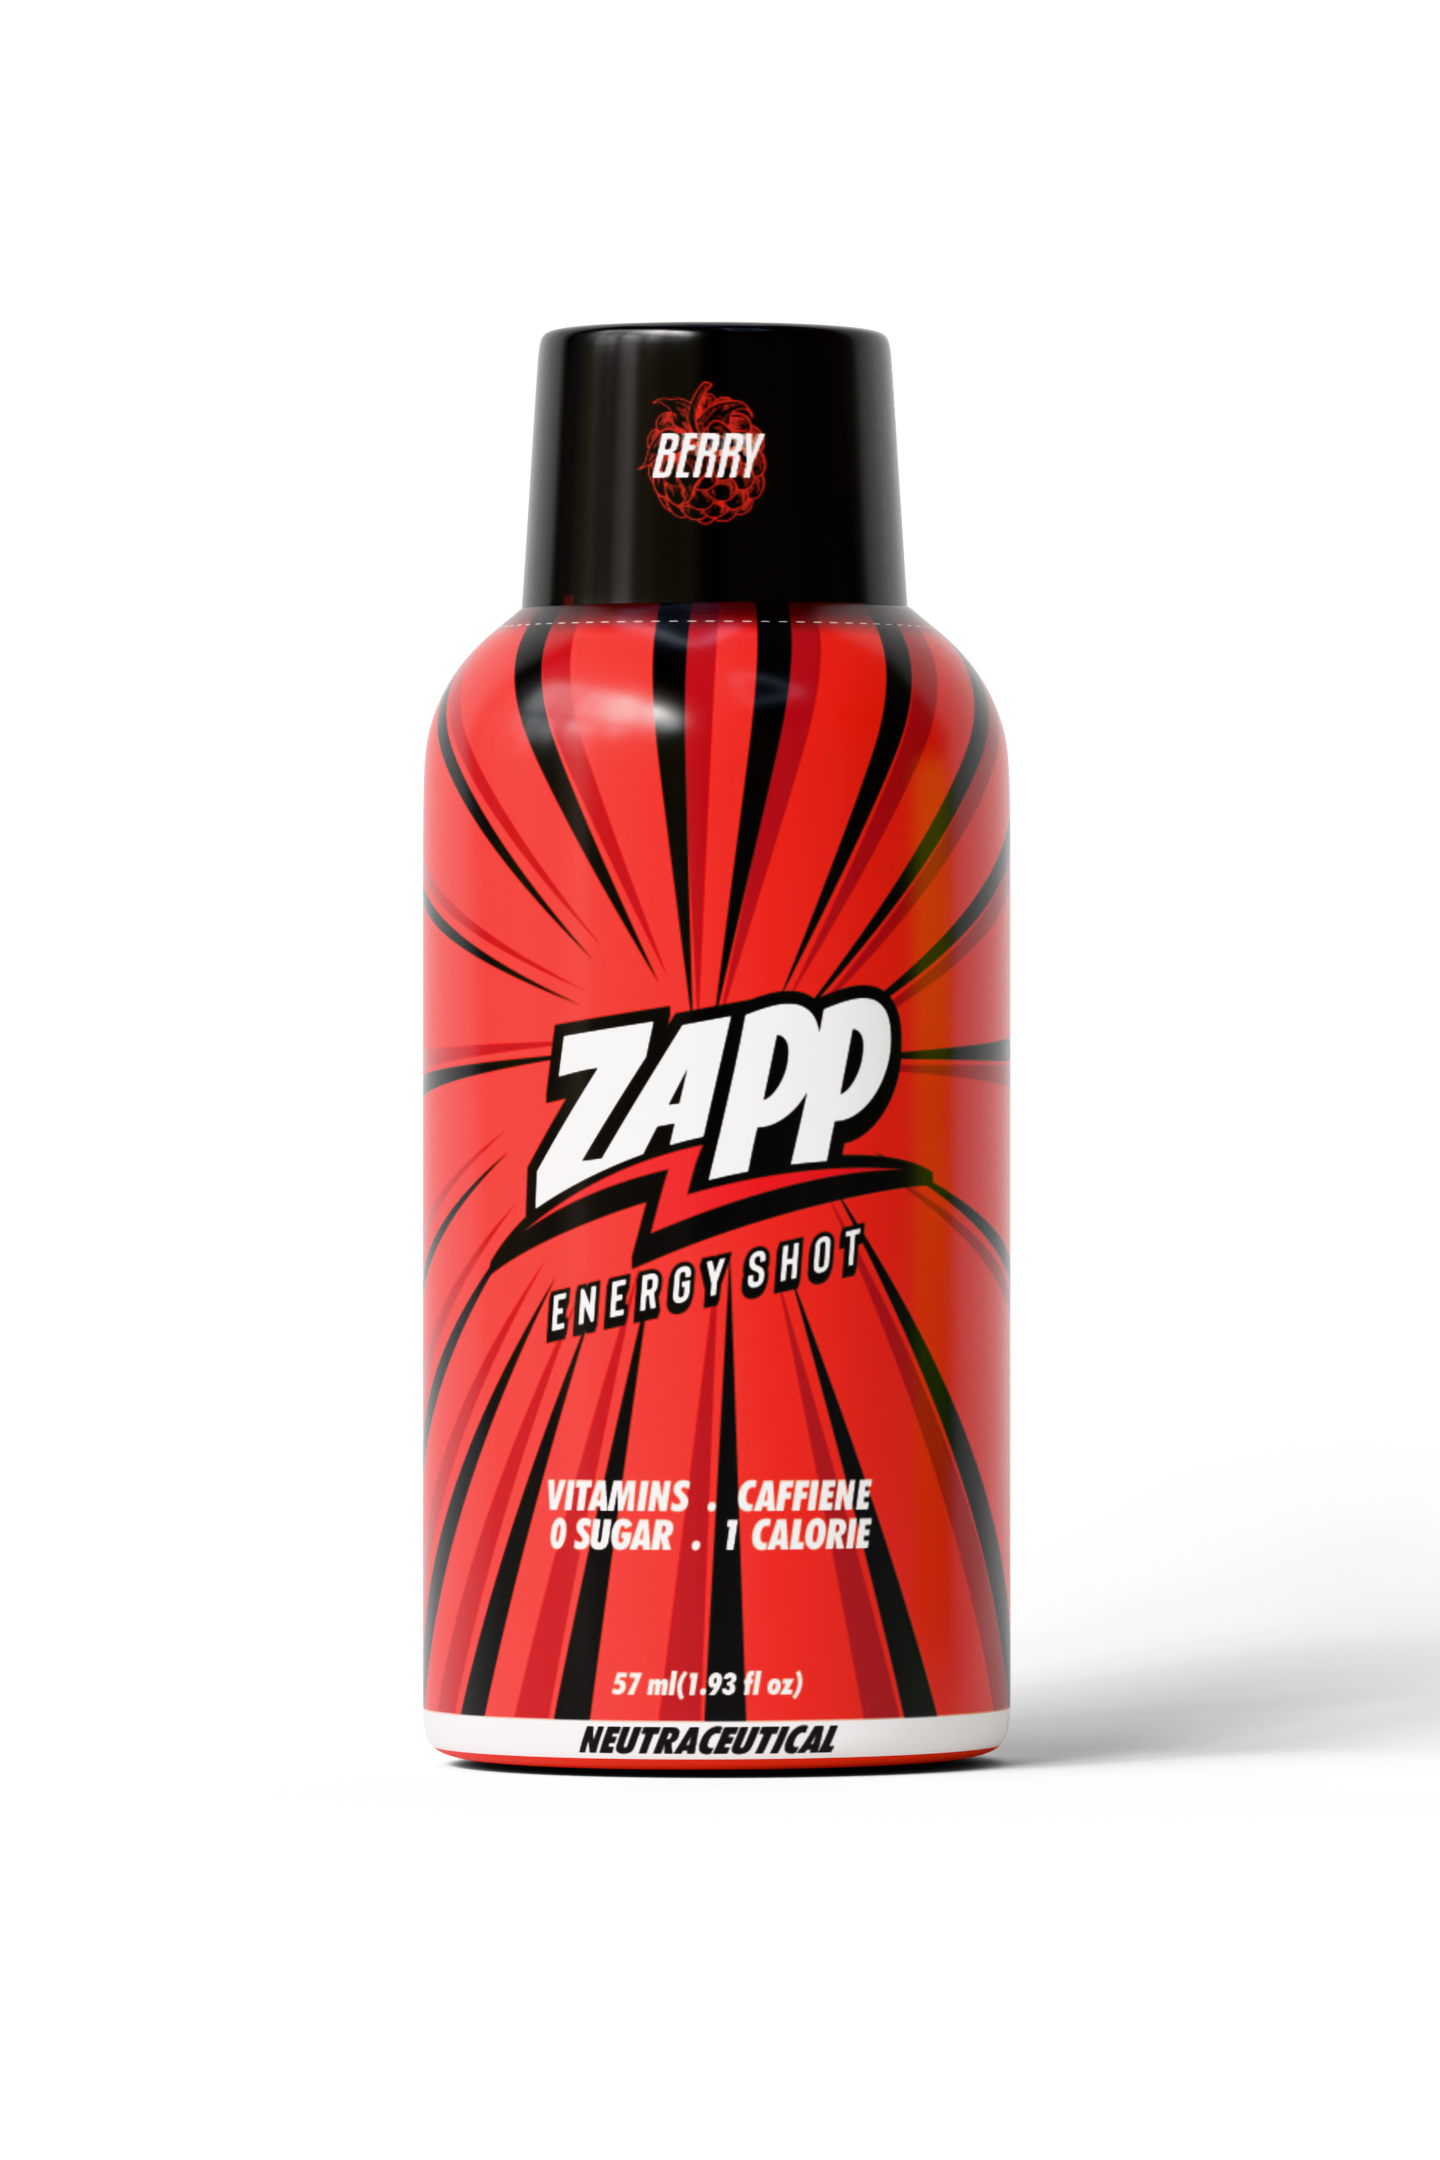
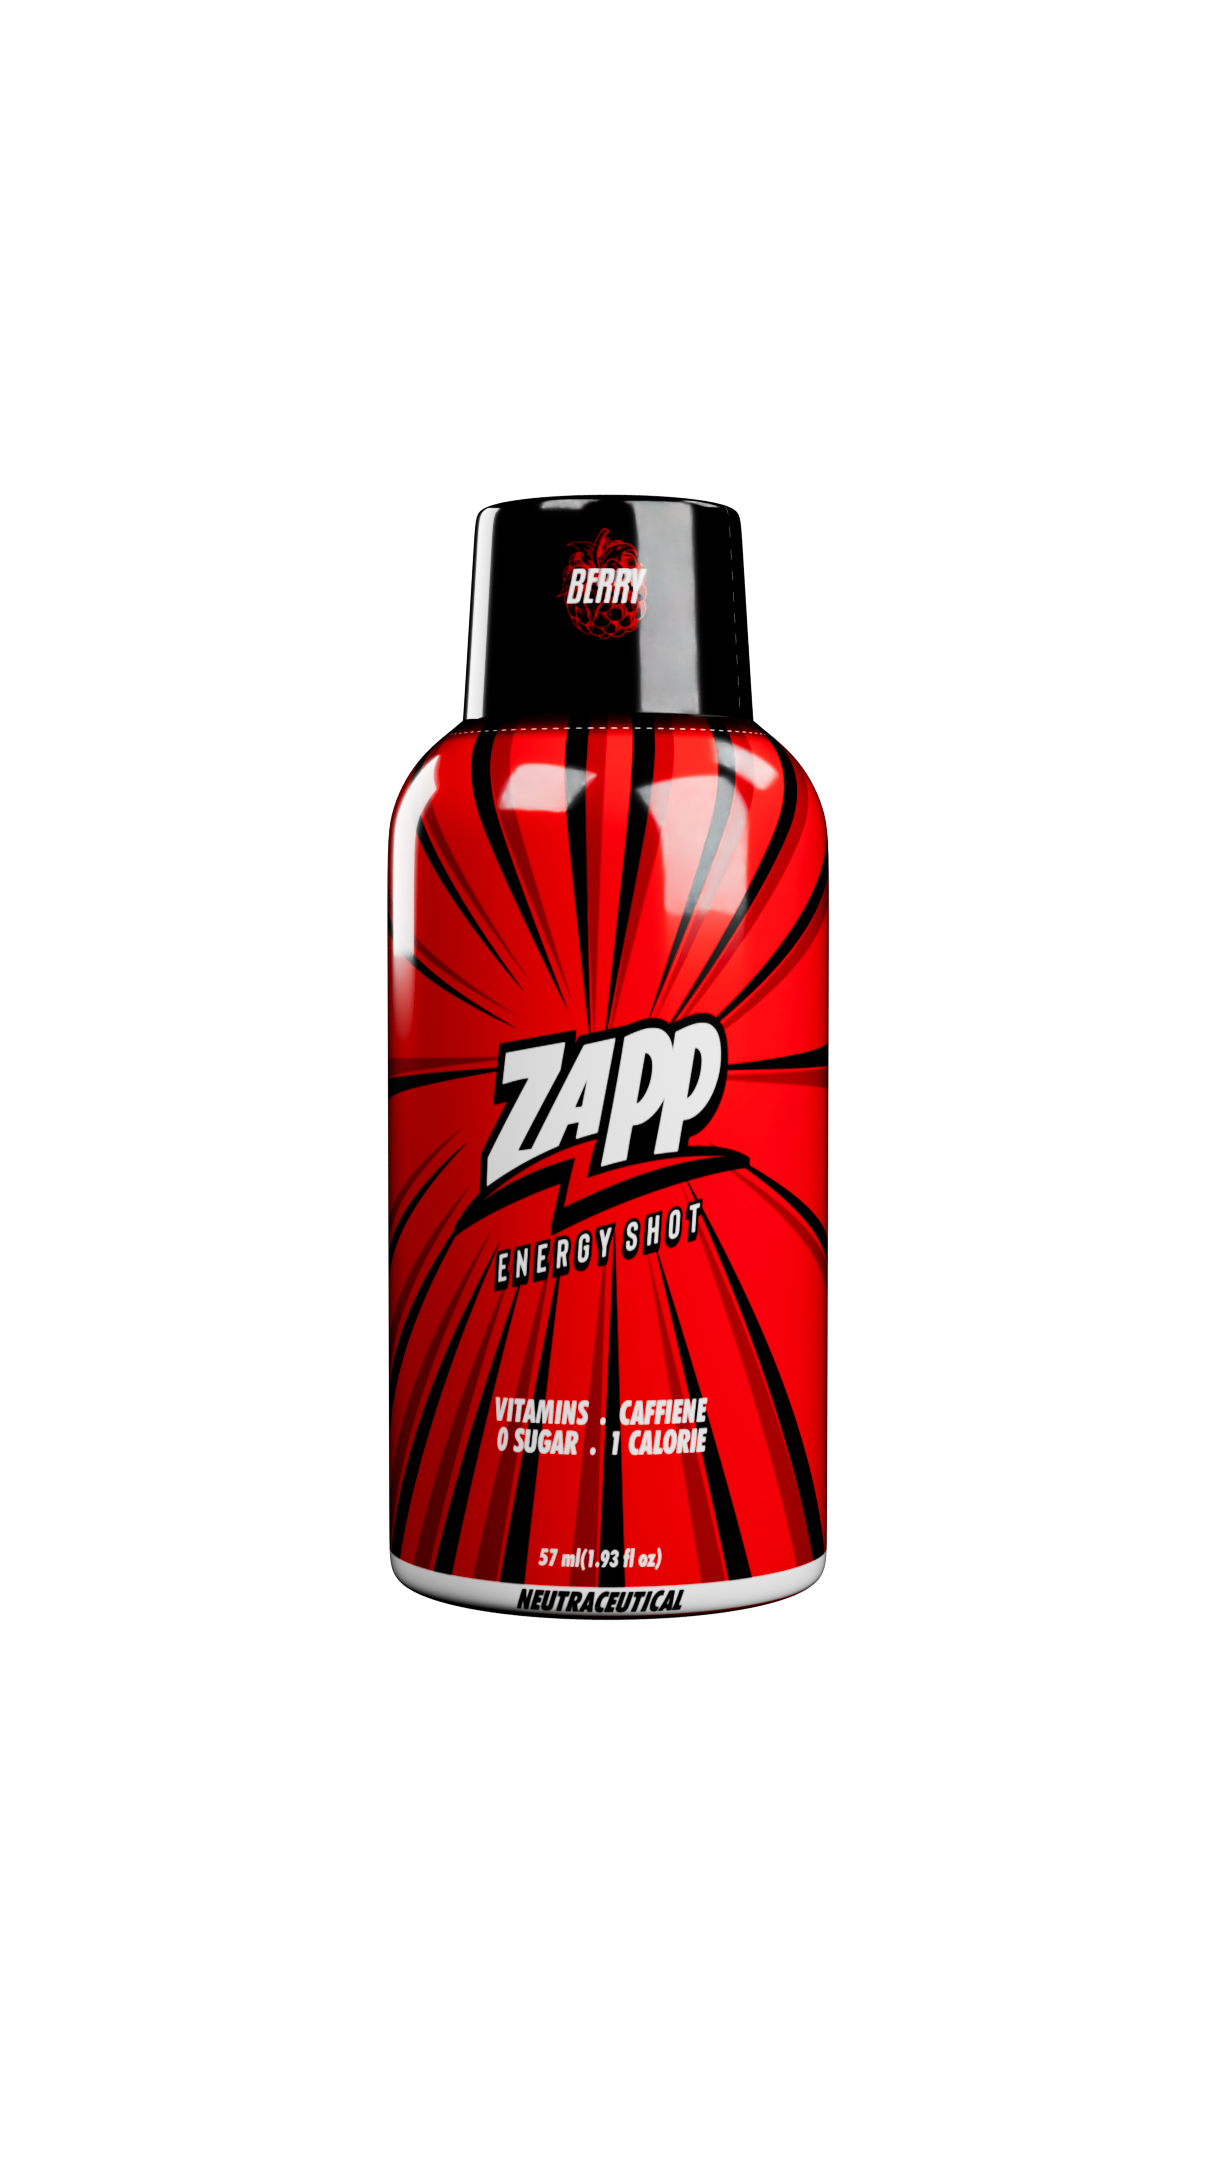
Bottle image change

Changed region(s): [[0.2741, 0.1241, 1.0, 0.8375]]

diff --git a/src/components/Product.jsx b/src/components/Product.jsx
@@ -1,5 +1,5 @@
 import React, { useState } from "react";
-import ZappRed from "../assets/zapp-berry.png";
+import ZappRed from "../assets/zapp-red.png";
 import ZappGreen from "../assets/zapp-lime.png";
 import CurvedNav from "./CurvedNav";
 
